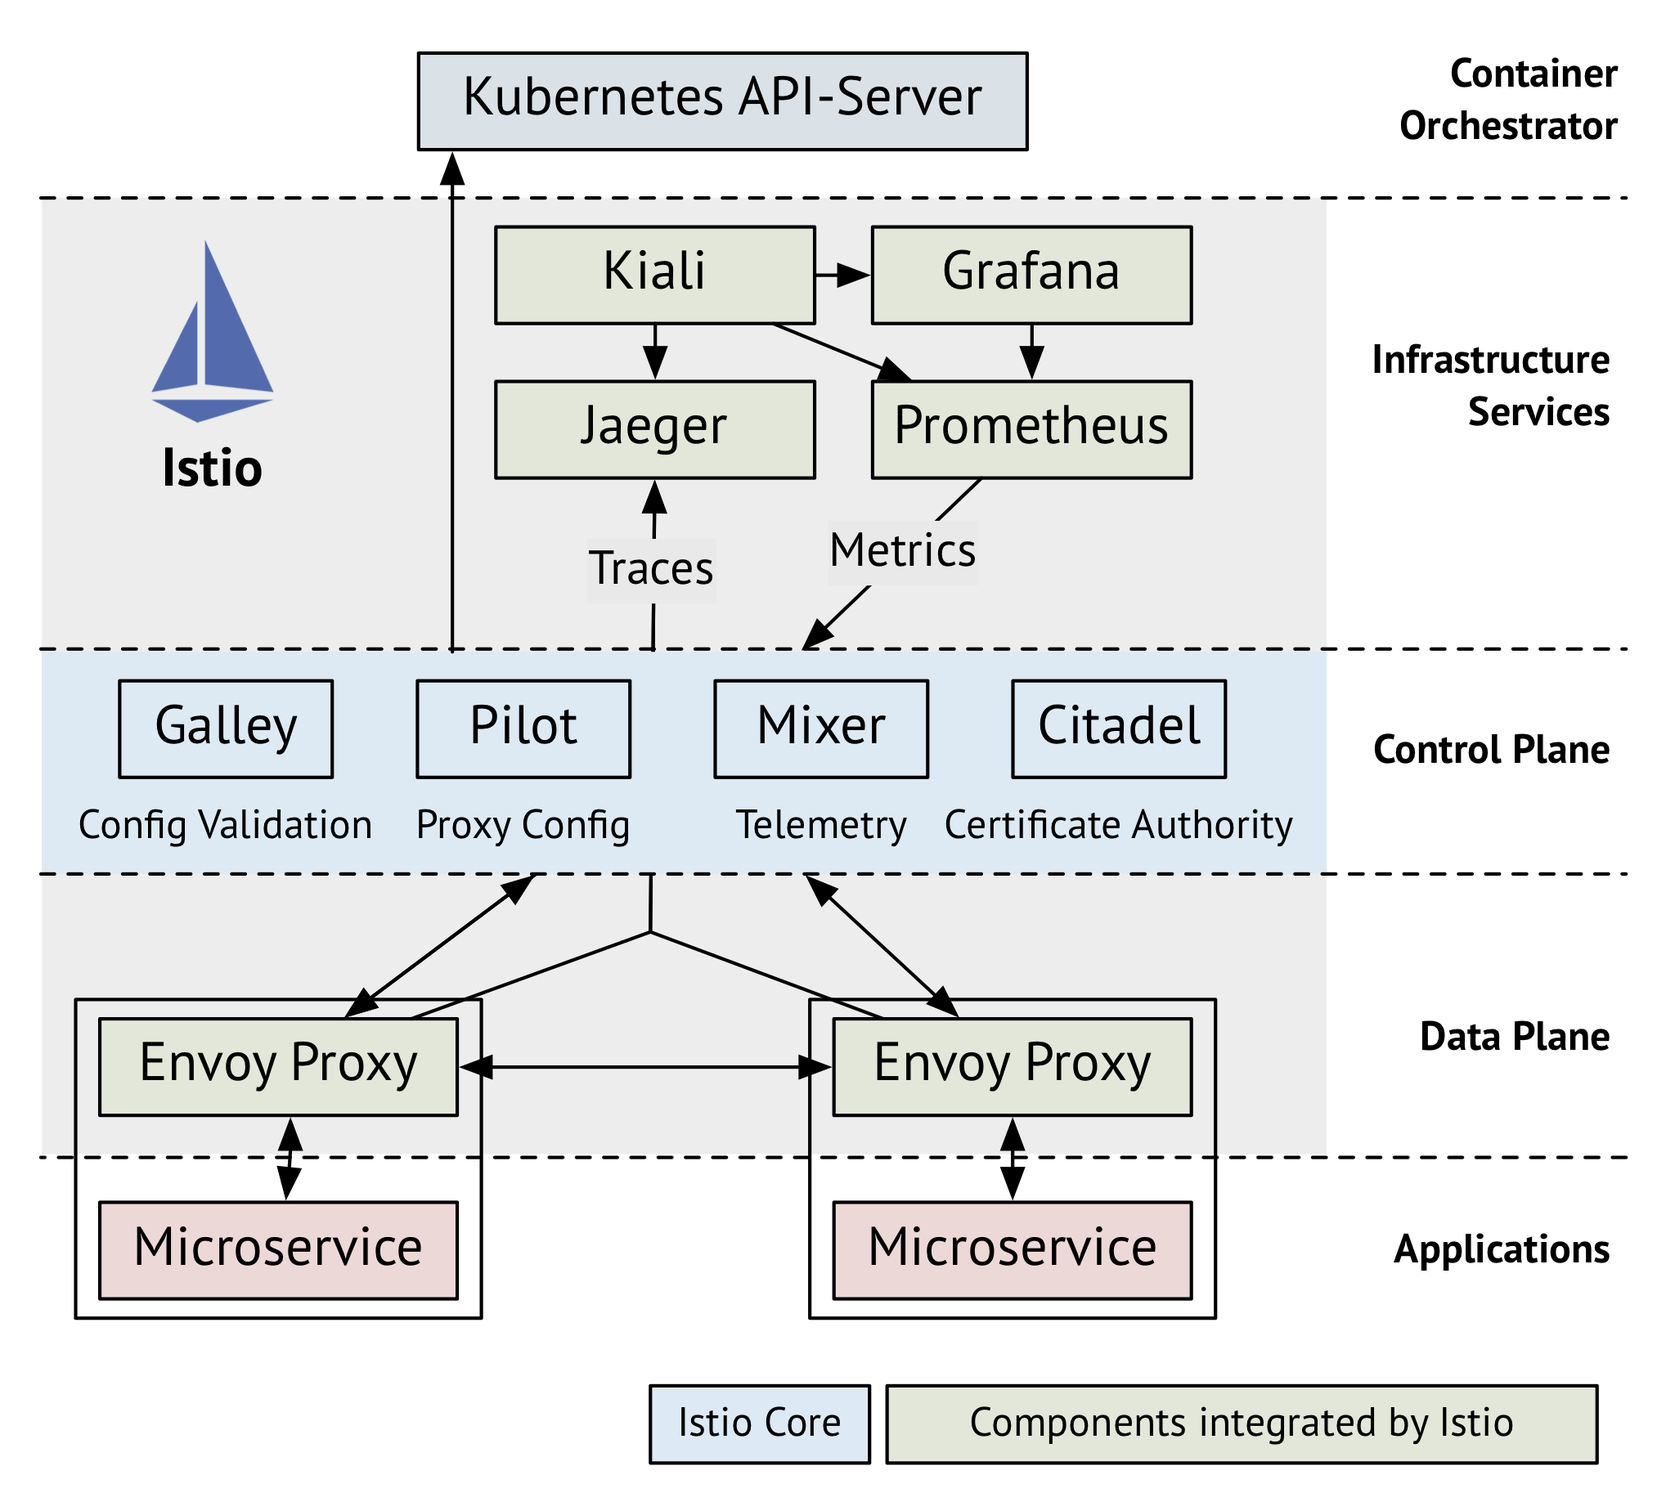
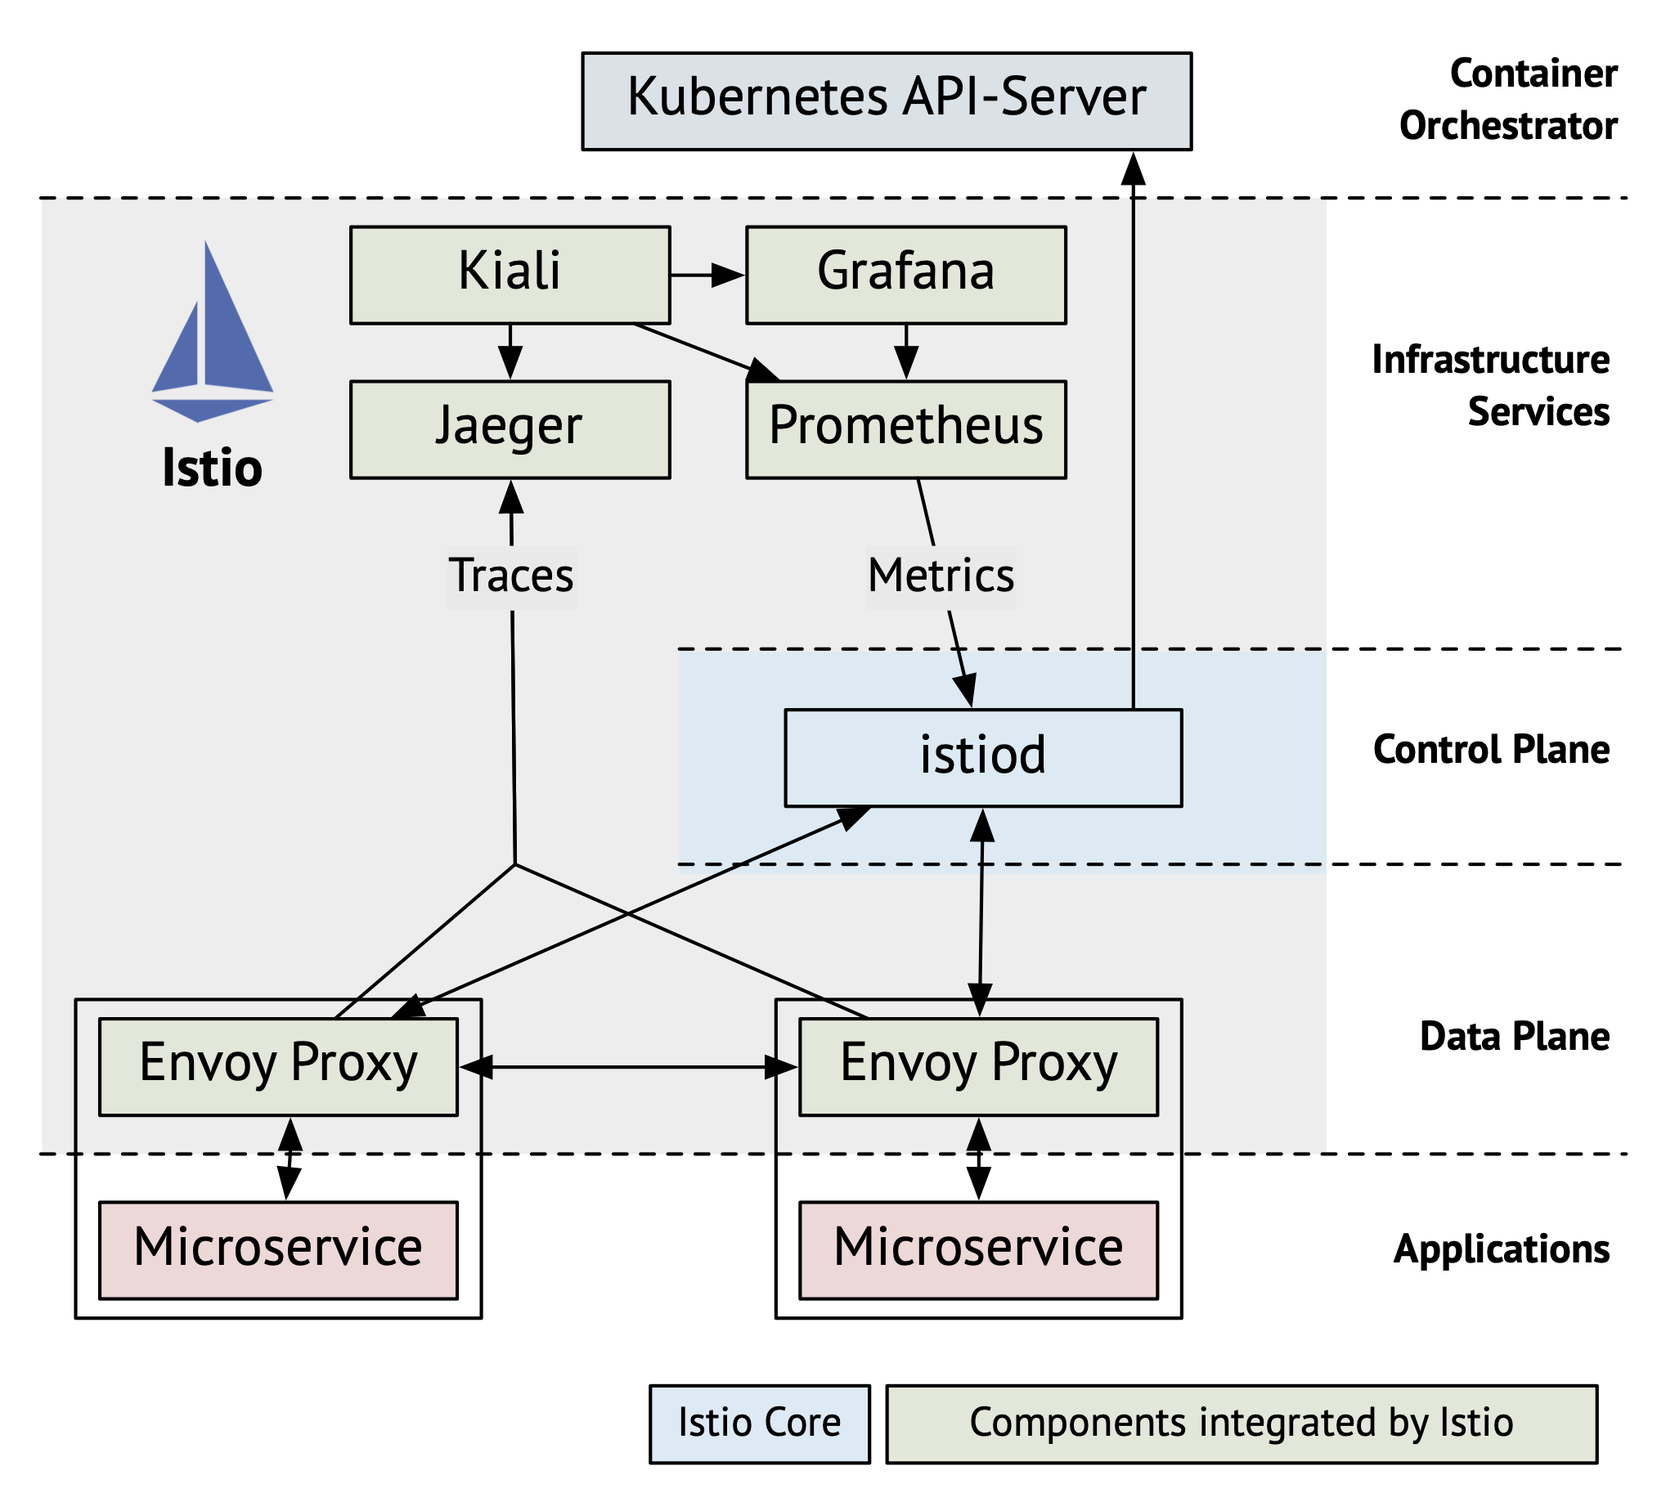
updates 2020

diff --git a/manuscript/05-Other-Service-Mesh.md b/manuscript/05-Other-Service-Mesh.md
@@ -1,13 +1,13 @@
 # Other Service Meshes {#chapter-other}
 
-The last chapter has discussed Istio. While Istio is the most popular service mesh, the market is quite diverse and worth evaluating. The first service mesh implementation was Linkerd, developed in 2015. In 2017, Google and IBM joined forces to create the Istio service mesh after they found out that they had been working on similar ideas. The public attention Istio received through Google and IBM as main contributors was amplified by media campaigns and conference talks. By the end of 2017, Linkerd announced a new, more opinionated service mesh only for Kubernetes that was first named Conduit and later Linkerd 2. By 2018, the term service mesh was ubiquitous and more products and companies joined the party. Consul added service mesh features and AWS announced their own service mesh implementation AWS App Mesh.
+The last chapter has discussed Istio. While Istio is the most popular service mesh, the market is quite diverse and worth evaluating. The first service mesh implementation was Linkerd, developed in 2015. In 2017, Google and IBM joined forces to create the Istio service mesh after they found out that they had been working on similar ideas. The public attention Istio received through Google and IBM as main contributors was amplified by media campaigns and conference talks. By the end of 2017, Linkerd announced a new, more opinionated service mesh only for Kubernetes that was first named Conduit and later Linkerd 2. By 2018, the term service mesh was ubiquitous and more products and companies joined the party. Consul added service mesh features and AWS announced their own service mesh implementation AWS App Mesh. A complete and updated list of current service mesh implementations -- including the most recent implementations like Maesh and Kuma -- and a more detailed feature comparison can be found at [servicemesh.es](https://servicemesh.es). 
 
 ## Linkerd 2 {#section-other-linkerd2}
 
 [Linkerd 2](https://linkerd.io) is the successor of Linkerd.
 Although Linkerd had been adopted in large production systems, the software was too complex to configure and not performing well. These limitations induced Buoyant to develop a completely new service mesh. The result -- formerly Conduit, today called Linkerd 2 -- was presented in December 2017 as an open source project, written in Go and Rust. Linkerd 2 is an incubation project of the [CNCF](https://www.cncf.io) (Cloud Native Computing Foundation) and currently the only service mesh in the CNCF portfolio.
 
-Although Kubernetes is the most common platform to be used with Istio, it is designed to work with any environment. The complexity of Istio is to some extent caused by this platform neutral design. While the first version of Linkerd was designed alike, Linkerd 2 is committed to Kubernetes only. Linkerd 2 implements most service mesh features such as monitoring, routing, retries, timeouts, and mTLS. Circuit breaking, tracing, and authorization are missing. While most service mesh implementations use the Envoy service proxy, Linkerd includes its own service proxy implementation (linkerd-proxy).
+Istio supports only Kubernetes right now, but aims to work in any environment in the future. The complexity of Istio is to some extent caused by this platform neutral design. While the first version of Linkerd was designed alike, Linkerd 2 is committed to Kubernetes only. Linkerd 2 implements most service mesh features such as monitoring, routing, retries, timeouts, and mTLS. In comparison to Istio, only circuit breaking, and authorization are missing. While most service mesh implementations use the Envoy service proxy, Linkerd includes its own service proxy implementation (linkerd-proxy), written in Rust.
 
 Rewriting Linkerd for usability and performance while integrating with
 Kubernetes seems to have worked out. The API of Linkerd 2 is much
@@ -18,22 +18,22 @@ Kubernetes CRD (Custom Resource Definition) and provides a carefully considered 
 
 ## Consul {#section-other-consul}
 
-[Consul](https://www.consul.io), originally a solution for service discovery, recently added service mesh use cases. Consul supports service discovery, authorization, mTLS, monitoring through metrics, and routing capabilities. The latter were added by integrating with the Envoy proxy that Istio and other service meshes are also using. Resilience features like circuit breaking, retry, and timeout are yet to be developed. Like Istio, Consul does not depend on any specific orchestration platform, but is compatible with Kubernetes and Nomad.
+[Consul](https://www.consul.io), originally a solution for service discovery, recently added service mesh use cases. Consul supports service discovery, authorization, mTLS, monitoring through metrics, routing and resilience capabilities. The latter were added by integrating with the Envoy proxy that Istio and other service meshes are also using. Like Istio, Consul does not depend on any specific orchestration platform, but is compatible with Kubernetes, Nomad, and VMs.
 
 ## AWS App Mesh {#section-other-aws-app-mesh}
 
 As the name suggests, [AWS App Mesh](http://aws.amazon.com/app-mesh/) is a service mesh developed for AWS. It was first introduced in November 2018. Like Istio and Consul, AWS App Mesh uses a pre-configured but customizable Envoy as service proxy and adds its own control plane. It is integrated with other AWS tools like CloudWatch for metrics and X-Ray for traces. AWS App Mesh already supports essential service mesh features like monitoring and routing. AWS users can activate App Mesh in Fargate, EC2, EKS, and EC2 and add configuration through JSON. In Kubernetes environments, configuration can be applied through CRDs and applied by the [AWS App Mesh Controller](https://github.com/aws/aws-app-mesh-controller-for-k8s).
 
-AWS is the most recent service mesh implementation, but since AWS has the biggest market share for cloud computing, AWS App Mesh is expected to stay and grow.  
+AWS App Mesh is one of the more recent service mesh implementations, but since AWS has the biggest market share for cloud computing, AWS App Mesh is expected to stay and grow.  
 
 ## When to Choose Which? {#section-other-choose}
 
 The features a service mesh provides are useful for the vast majority of microservice applications. When it comes to choosing a specific service mesh implementation, it is hard to resist going with Istio as it is the most popular one. But experience shows that technical decisions are best based on requirements and problems rather than any hype, a project´s public attention, or even its number of features.
 
-As shown in [figure 5.2](#fig-other-service-mesh-comparison), Istio has overtaken all other service mesh implementations in terms of feature completeness and configurability. But this rich feature set has turned Istio into a complex component that can be hard to manage in practice. In cases where not all features and their customizability are required, Linkerd 2, Consul, and AWS App Mesh might be better choices.
+As shown in [figure 5.2](#fig-other-service-mesh-comparison), Istio has overtaken all other service mesh implementations in terms of feature completeness and configurability. But this rich feature set has turned Istio into a complex component that can be challenging to manage in practice. In cases where not all features and their customizability are required, Linkerd 2, Consul, and AWS App Mesh might be better choices.
 
-![Figure 5.2: Features of service mesh implementations as of August 2019](images/other-comparison.png){#fig-other-service-mesh-comparison}
+![Figure 5.2: Features of service mesh implementations as of May 2020](images/other-comparison.png){#fig-other-service-mesh-comparison}
 
 Another criterion is the platform. If the whole application runs in Kubernetes anyway, users can benefit from the simplicity of Linkerd 2. If Consul or AWS are already used, the corresponding service mesh implementations might cause least friction. If multiple clusters or legacy applications outside of the cluster are involved, Istio provides appropriate concepts and configuration as mentioned in [chapter 4](#section-why-legacy). 
 
-Many microservice applications are dealing with a higher latency compared to monoliths. Communication in a monolith is always a method call in the same process. Communication between microservices goes through the network stack and has therefore a higher latency. A service mesh also adds to the latency, which is not completely balanced by improved load balancing strategies. In addition, the sidecars double the number of running containers which has an impact on resource consumption. Fair benchmarks in this space are hard to find because of the different feature sets and configuration. Most results show that although Istio's performance has improved over time, Linkerd 2 is performing better under high load and uses much less resources.
+Many microservice applications are dealing with a higher latency compared to monoliths. Communication in a monolith is always a method call in the same process. Communication between microservices goes through the network stack and has therefore a higher latency. A service mesh also adds to the latency, which is not completely balanced by improved load balancing strategies. In addition, the sidecars double the number of running containers which has an impact on resource consumption. Fair benchmarks in this space are hard to find because of the different feature sets and configuration. Most results show that although Istio's performance has improved over time and is similar to Linkerd 2.

diff --git a/manuscript/04-Example.md b/manuscript/04-Example.md
@@ -16,20 +16,23 @@ metrics, logging, tracing, traffic routing, circuit breaking, mTLS, and
 authorization. Although Istio is designed to be platform-independent, it
 started with first class support for Kubernetes.
 
-[Figure 4.1](#fig-example-istio) reflects how the service mesh is
+[Figure 4.1](#fig-example-istio) reflects how a service mesh is
 located between the orchestrator (top) and the application
-(bottom). The four core components of Istio make up the control plane:
-Galley, Pilot, Mixer, and Citadel. They communicate with the service
-proxies to distribute configurations, receive recorded network traffic
+(bottom). In Istio version 1.5, the formerly distributed Control Plane 
+was unified into a single process (istiod). It communicates with the service
+proxies to distribute configuration, receive recorded network traffic
 and telemetry data, and manage certificates. Istio uses [*Envoy*](https://www.envoyproxy.io)
 as service proxy, a widely adopted open source proxy that is used by
 other service meshes, too.
 
 ![Figure 4.1: Istio Architecture](images/example-istio.png){#fig-example-istio}
 
-In addition to the typical service mesh control and data plane, Istio also adds infrastructure services. They support the monitoring of microservice applications. Instead of developing its own tools, Istio integrates established applications such as  *Prometheus*, *Grafana*, and *Jaeger* and the service mesh dashboard *Kiali*. The image shows that the Istio control plane interacts with the orchestrator, which today is in most cases Kubernetes.
+In addition to the typical service mesh control and data plane, Istio also adds infrastructure services. They support the monitoring of microservice applications. Instead of developing its own tools, Istio integrates established applications such as *Prometheus*, *Grafana*, and *Jaeger* and the service mesh dashboard *Kiali*. The image shows that the Istio control plane interacts with the orchestrator, which today is in most cases Kubernetes.
 
-In a Kubernetes environment, Istio adds over 20 Custom Resource Definitions (CRDs), which demonstrates the complexity of the Istio API and the richness of configuration options. On the one hand, this allows full customization, but on the other hand it clearly affects the usability. Istio also adds a number of components (marked as Istio Core and integrated components in the figure) to an application which increases technical complexity.
+In a Kubernetes environment, Istio adds over 20 Custom Resource Definitions (CRDs), which demonstrates 
+the complexity of the Istio API and the richness of configuration options. On the one hand, this allows 
+full customization, but on the other hand it clearly affects the usability. Istio's technical complexity however 
+was drastically reduced by the monolithic control plane in Istio 1.5.
 
 ## Overview {#section-example-overview}
 
@@ -157,7 +160,7 @@ traffic.
 
 ![Figure 4.3: Prometheus with Istio Metrics](images/example-prometheus.png){#fig-example-prometheus width=65%}
 
-<!-- I suggest removing the browser frame from all images -->
+
 
 #### Grafana
 
@@ -191,7 +194,7 @@ already in place.
 As explained in [section 2.1](#section-why-monitoring), tracing might
 be important to trace calls across microservices and to do a root cause
 analysis based on that information.
-For tracing, Istio uses [Jaeger](https://www.jaegertracing.io/).
+For tracing, Istio uses [Jaeger](https://www.jaegertracing.io/) by default.
 
 The documentation of the example contains a
 [section](https://github.com/ewolff/microservice-istio/blob/master/HOW-TO-RUN.md#tracing)
@@ -201,8 +204,8 @@ about tracing.
 
 [Figure 4.5](#fig-example-tracing) shows an example of a
 trace for a request to the shipping microservice. The
-user started a poll for new data on the order microservice. Then the
-service contacted the Istio Mixer to make sure the policies are enforced.
+user started a poll for new data on the shipping microservice, which resulted in a 
+request to the order service that took 9.15 miliseconds.
 
 [Figure 4.6](#fig-example-tracing-dependencies) shows a different type of
 information Jaeger provides: the dependencies between the
@@ -216,7 +219,7 @@ of the system.
 ![Figure 4.6: Jaeger Dependencies](images/example-tracing-dependencies.png){#fig-example-tracing-dependencies width="60%"}
 
 To understand which incoming request caused which outgoing requests,
-Jaeger relies on specific HTTP header. The values in the headers of
+Jaeger relies on specific HTTP headers. The values in the headers of
 the incoming requests have to be added to any outgoing request.  This
 means that tracing cannot be transparent to the microservices. They
 have to include some code to forward the tracing headers from the
@@ -299,6 +302,10 @@ implementation by searching for log entries with severity error. Also
 logging each HTTP request adds little value.  Information about the
 HTTP requests is probably already included in the logs of the
 microservices.
+
+## Security {#service-mesh-security}
+
+TODO!!!
 
 ## Resilience {#service-mesh-resilience}
 
@@ -428,7 +435,6 @@ the Istio configuration. That makes it easy to define a timeout per
 retry and a maximum time span that all retries together might take.
 
 ~~~~~~~~ {.yaml}
-
 apiVersion: networking.istio.io/v1alpha3
 kind: VirtualService
 metadata:
@@ -452,11 +458,15 @@ retries and timeouts for the order microservice. Calls to the order
 microservice are retried up to 20 times. For each retry, a timeout of
 5 seconds is configured. However, there is also a total timeout of
 10 seconds. So if the retries don't succeed within 10 seconds, the call
-will fail. The Istio's default timeout is 15 seconds.
+will fail. The Istio's default timeout is 15 seconds.   
 
 `retryOn` defines when a request is considered failed. In this case any
 HTTP status code 5xx or connection failures such as timeouts are
 considered failed requests.
+
+While Istio allows retry and timeout configuration only on the level of 
+services, other products like Linkerd 2 allow fine-grained configuration 
+by request path or method.
 
 The rest of the file is not shown in the listing. It adds retries to
 the Istio Ingress gateway for the order microservice.
@@ -499,7 +509,7 @@ discuss:
   and are therefore a great addition to this chapter.
 
 - Istio provides support for security. See [the security
-  task](https://istio.io/docs/tasks/security/) for some hands-on
+  tasks](https://istio.io/docs/tasks/security/) for some hands-on
   exercises
   for this feature. The exercises cover encrypted communication,
   authentication and authorization.
@@ -516,16 +526,10 @@ discuss:
   old version behave in the same way.
   
 - This 
-[example](https://istio.io/docs/tasks/telemetry/metrics-logs/)
-discusses how Istio support logs,
-showing how log information can be composed from Mixer's data. This
+[example](https://istio.io/docs/tasks/observability/logs/access-log/)
+discusses how logs can be assembled from Envoys access logs. This
 example outputs the logs to stdout and not to a log infrastructure.
 
-- Also, this 
-[example](https://istio.io/docs/tasks/telemetry/fluentd/) shows
-how [Fluentd](https://www.fluentd.org/) collects the
-logs Istio provides from all microservices. The logs are stored in
-Elasticsearch and evaluated with Kibana.
 
 ## Conclusion
 
@@ -541,13 +545,11 @@ Some code has to be added to the microservices for tracing so that
 they forward the tracing headers to the outgoing HTTP requests. Still
 the complete infrastructure is provided by Istio.
 
-Istio does not provide an infrastructure for logging, but it can
-log information for each HTTP request to a logging
-infrastructure. However, logging is often used to look inside the
+Istio can provide access to the envoy proxy access logs, but it does not 
+provide an infrastructure for logging. 
+However, logging is often used to look inside the
 microservices and understand what they actually do. This can only be
-implemented in the code of the microservices. Still Istio could at
-least provide some very basic information in the logs without any
-impact on the code or the microservices.
+implemented in the code of the microservices.
 
 Istio allows to simulate problems in the system by injecting delays and
 faults. That is useful to test the system's resilience. Istio's

diff --git a/manuscript/03-Why-Service-Meshes.md b/manuscript/03-Why-Service-Meshes.md
@@ -143,7 +143,7 @@ increase resilience: If the failure is transient, the retry can make
 the request succeed. However, retries also increase the number of
 requests. So the called microservice will have a higher load and might
 become unstable. A circuit breaker might be used to solve this problem.
-  
+
 ### Timeout
 
 *Timeouts* make sure that the calling microservice is not blocked for
@@ -245,6 +245,12 @@ Of course, the service mesh itself needs to run. This will consume
 memory and CPU. However, hardware is becoming cheaper constantly and
 adding some hardware resources to improve the reliability of a system
 might be acceptable.
+
+The amount of resource consumption and latency highly depends on the 
+service mesh implementation and version, settings, and the amount of 
+network traffic of the specific application. Therefore, if 
+either is restricted by requirements, it should be measured individually in a 
+test deployment and compared to a mesh-free deployment.
 
 ## Legacy {#section-why-legacy}
 
